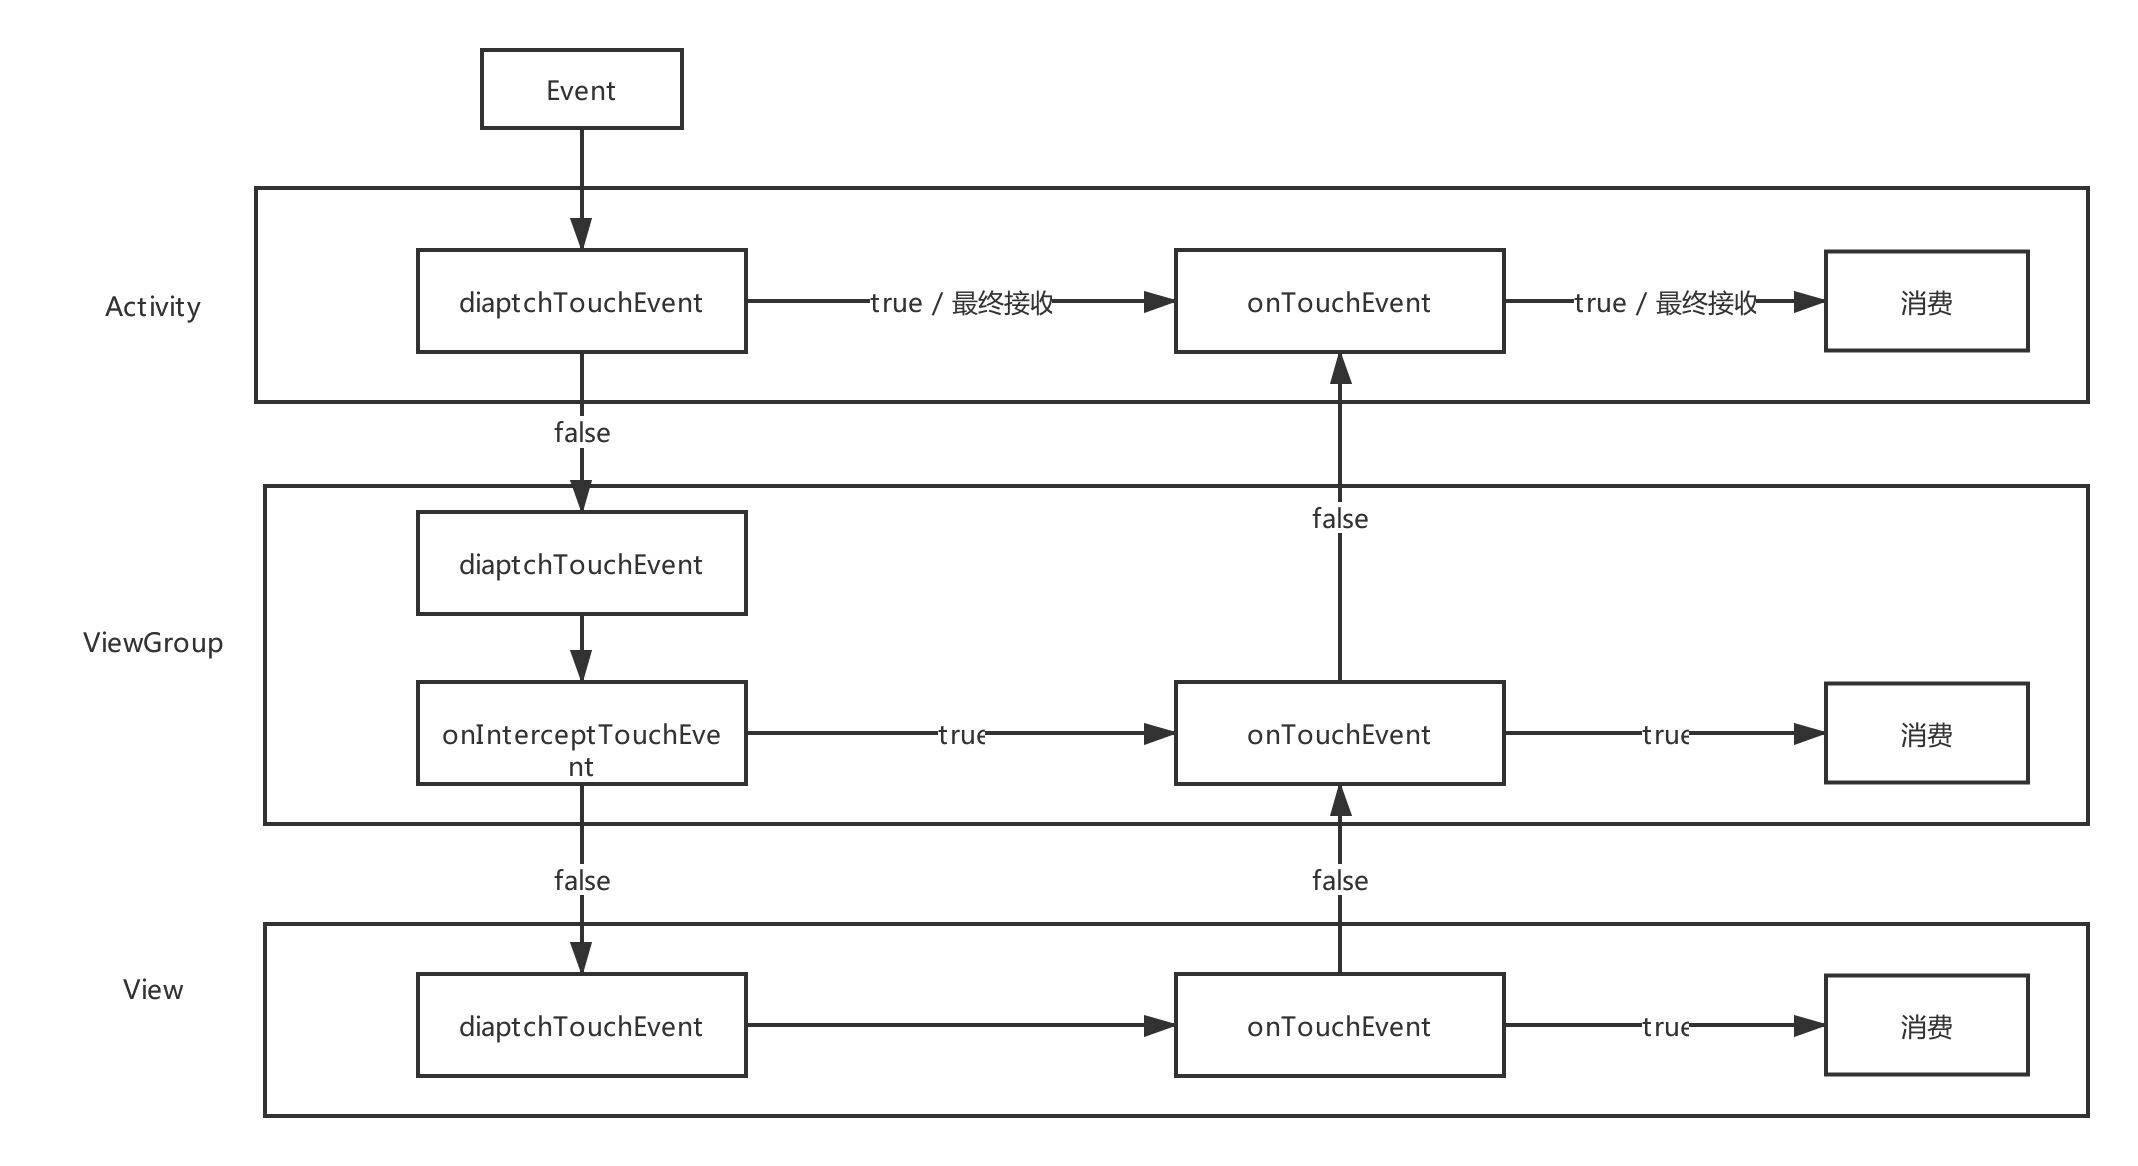
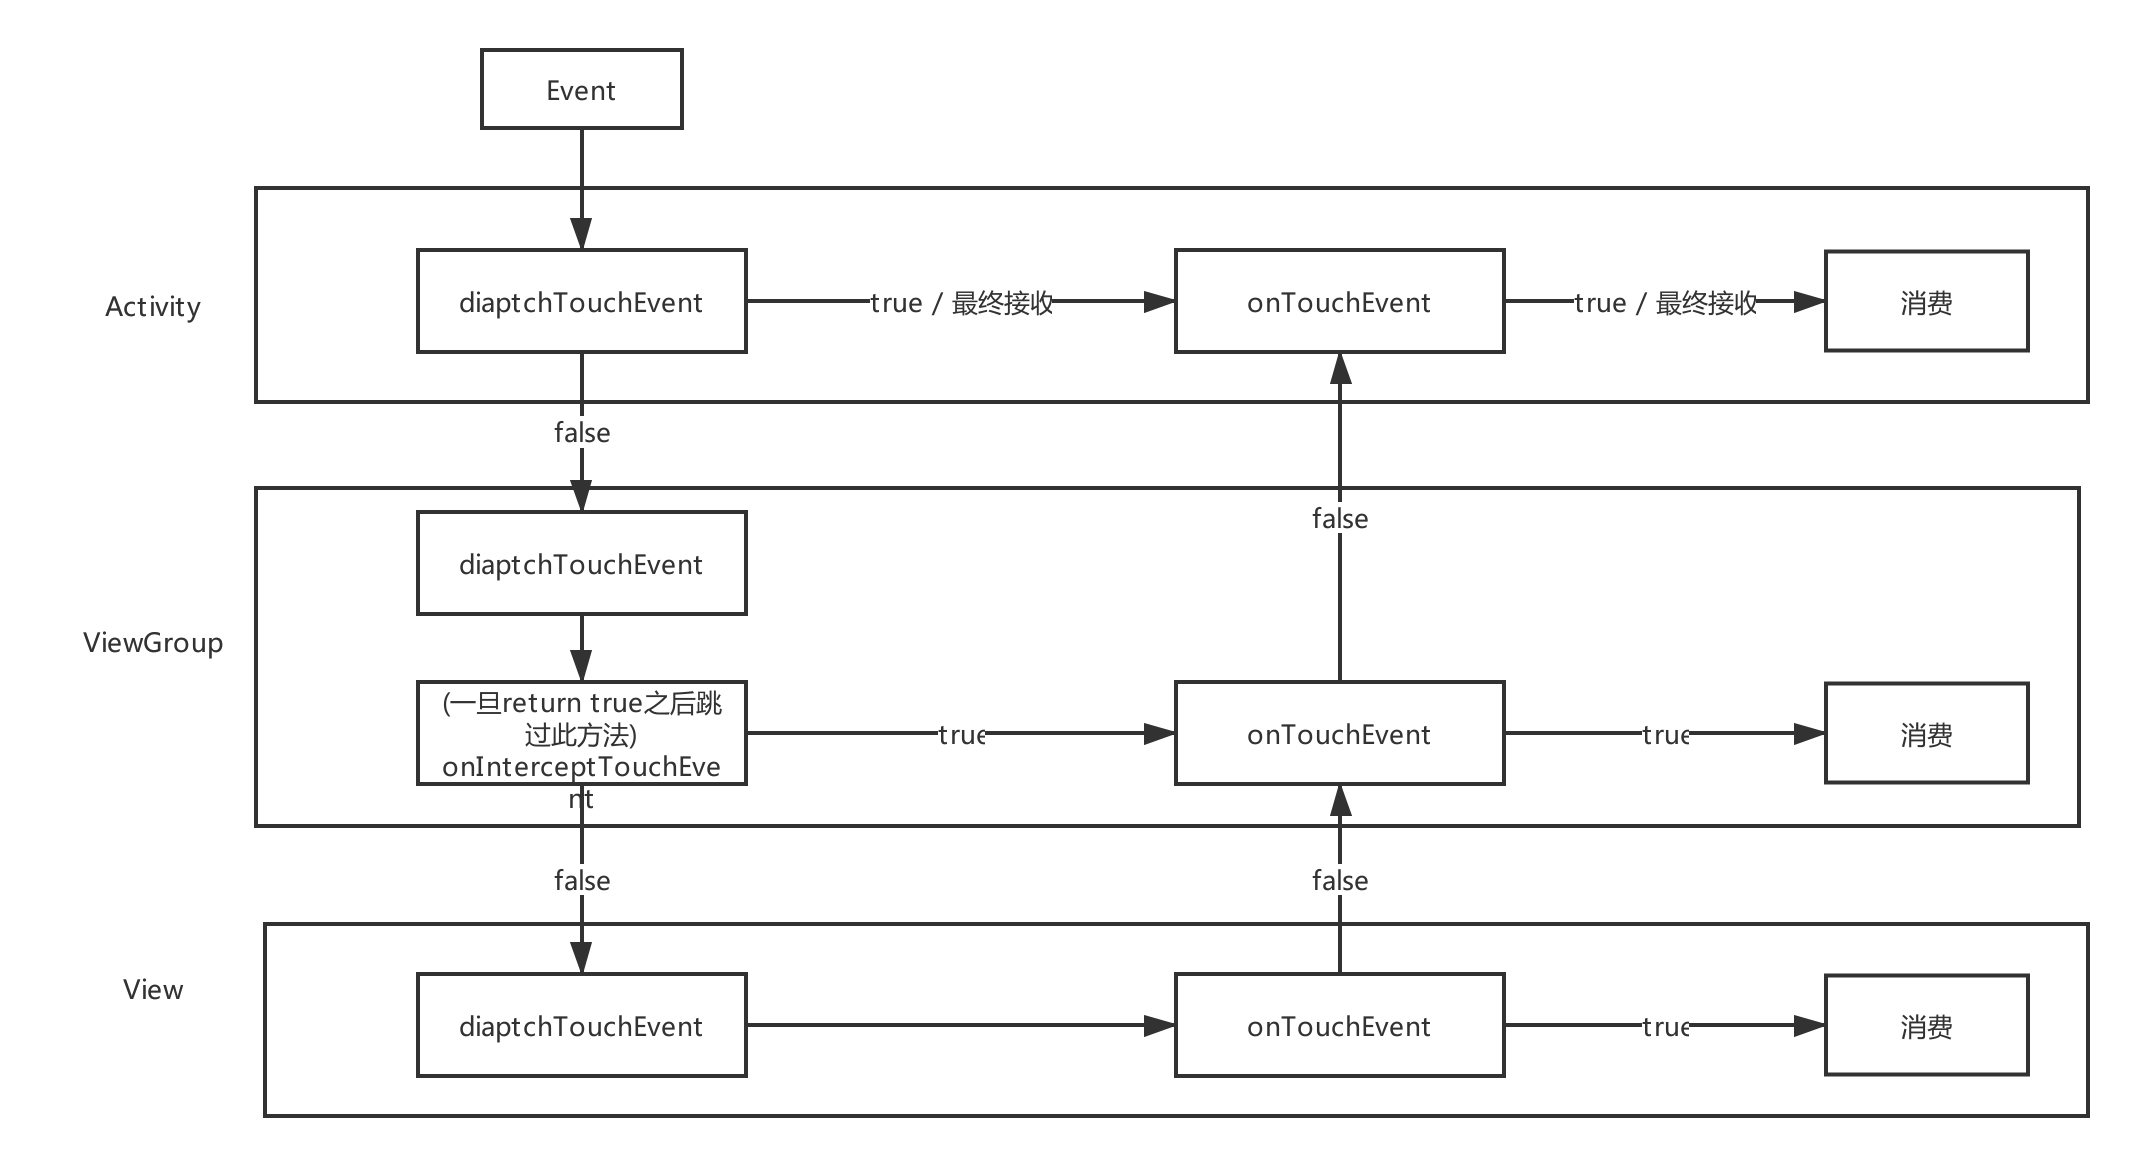
修改文章的图片，添加细节

Changed region(s): [[0.1235, 0.4014, 0.9878, 0.7101], [0.1235, 0.4014, 0.247, 0.4322]]

diff --git a/_posts/2019-7-23-Android-View事件分发解析.md b/_posts/2019-7-23-Android-View事件分发解析.md
@@ -20,6 +20,7 @@ typora-root-url: ..
 3. 如果事件被消费了，后续的事件都会按照最短路线传给消费的View。
 4. onTouchListener > onTouchEvent > onLongClickListener > onClickListener消费顺序
 5. 子View可以调用requestDisallowInterceptTouchEvent 方法进行设置，从而阻止父 ViewGroup的onInterceptTouchEvent 拦截事件，强制返回false。
-6. dispatch必须调用super方法，否则后面的事件无法连续的被分发，原因是dispatch是分发事件用的，或者你可以手写分发
-7. intercept 和 touch 可以不调用super，不会影响事件分发
-8. 如果一个ACTION_DOWN被其他View消费，后续事件被父布局（必须是ViewGroup）的InterceptTouchEvent 返回 true，那么会出现一个ACTION_CANCEL 发送给之前消费的View或者ViewGroup
+6. dispatch必须调用super方法，否则后面的事件无法连续的被分发，原因是dispatch是分发事件用的，或者你可以手写分发。
+7. intercept 和 touch 可以不调用super，不会影响事件分发。
+8. 如果一个ACTION_DOWN被其他View消费，后续事件被父布局（必须是ViewGroup）的InterceptTouchEvent 返回 true，那么会出现一个ACTION_CANCEL 发送给之前消费的View或者ViewGroup。
+9. ViewGroup 的 onInterceptTouchEvent 一旦返回true 拦截之后，后续的事件就不会传给这个方法了，直接跳过传给onTouchEvent。
